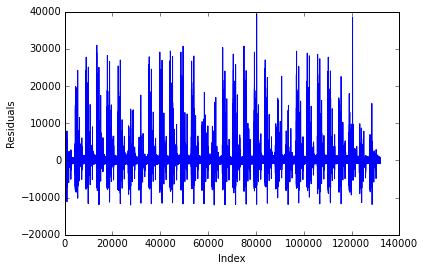
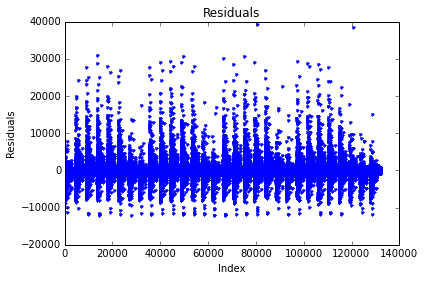
Update 2.6 and 5.1

diff --git a/p1_analyzing_nyc_subway/additional_scripts/plot_residuals_and_predict.py b/p1_analyzing_nyc_subway/additional_scripts/plot_residuals_and_predict.py
@@ -14,10 +14,12 @@ def predictions(weather_turnstile):
     model = sm.OLS(y, x)
     model_fitted = model.fit()
 
-    plot_residuals_histogram(model_fitted.res)
+    plot_residuals_histogram(model_fitted.resid)
 
     predict = model_fitted.predict()
-    plot(y - predict, 'Residuals')
+    plot_residuals(y - predict, 'Residuals')
+
+    plot_predicted_vs_actual(predict, y)
 
     return predict
 
@@ -28,10 +30,20 @@ def plot_residuals_histogram(res):
     plt.ylabel('Frequency')
     plt.show()
 
-def plot(res, ylabel):
-	plt.plot(res)
+def plot_residuals(res, ylabel):
+    plt.title('Residuals')
+    plt.plot(res, '.')
     plt.xlabel('Index')
     plt.ylabel(ylabel)
+    plt.show()
+
+def plot_predicted_vs_actual(predict, actual):
+    m, b = np.polyfit(predict, actual, 1)
+    plt.plot(predict, actual, 'o')
+    plt.plot(predict, m*predict + b, '-')
+    plt.title('Predicted vs Actual ENTRIESn_hourly')
+    plt.xlabel('Predicted ENTRIESn_hourly')
+    plt.ylabel('Actual ENTRIESn_hourly')
     plt.show()
 
 

diff --git a/p1_analyzing_nyc_subway/README.md b/p1_analyzing_nyc_subway/README.md
@@ -59,11 +59,13 @@ The R squared value is 0.459.
 
 #### 2.6 What does this R2 value mean for the goodness of fit for your regression model? Do you think this linear model to predict ridership is appropriate for this dataset, given this R2 value?
 
-From the R squared value, 45.9% of the variance can be explained by the regression model. From the R squared value and the following graphs, I think this linear model to predict ridership isn’t appropriate for this dataset.
+From the R squared value, 45.9% of the variance can be explained by the regression model. Given the R squared value and the following graphs, I think this linear model to predict ridership isn’t appropriate for this dataset.
 
 ![](https://raw.githubusercontent.com/Anumodana/udacity-data-science/master/p1_analyzing_nyc_subway/images/Histogram%20of%20Residuals.png)
 
 ![](https://raw.githubusercontent.com/Anumodana/udacity-data-science/master/p1_analyzing_nyc_subway/images/Predicted%20vs%20Actual%20ENTRIESn_hourly.png)
+
+![](https://raw.githubusercontent.com/Anumodana/udacity-data-science/master/p1_analyzing_nyc_subway/images/Residuals%20vs%20Index.png)
 
 ## Section 3. Visualization
 
@@ -100,10 +102,6 @@ are 1105.446 and 1090.279 respectively. Thus, there is a higher chance that more
 
 #### 5.1 Please discuss potential shortcomings of the methods of your analysis.
 
-> To meet expectations in this section it is necessary to explore a bit more thoroughly the intuition about the limitedness of the linear model and its implications: Continuing with the reasoning started discussing the residuals in 2.6 it might be interesting to plot the residual per data point, some patterns might emerge to help understand some limitations emerging from applying a linear model to this problem, so by merely plotting the difference between predictions and actual values (residuals) you will, most likely, see that the residuals follow a cyclical pattern. If so, that might prove that some non-linearity in the data should be addressed by designing a non linear model. The code is really simple and looks like this: import matplotlib.pyplot as pltplt.plot(data - predictions) plt.show()
-
-> This is not mandatory, you could simply extend the conclusions from the residual analysis in 2.6 to meet specifications.
-
 **Dataset**
 + Only data on May 2011 included in the dataset that I analyzed.
 If the sample size of data is increased, the analysis may be changed.
@@ -111,9 +109,7 @@ If the sample size of data is increased, the analysis may be changed.
 depends on several factors other than the weather.
 
 **Analysis**
-![](https://raw.githubusercontent.com/Anumodana/udacity-data-science/master/p1_analyzing_nyc_subway/images/Residuals%20vs%20Index.png)
-
-
++ From section 2.6, we can see that the linear model is not a good fit to this dataset. It seems data appears to be non-linear. From Residuals graph, they are not symmetrically distributed.
 
 ## References
 
